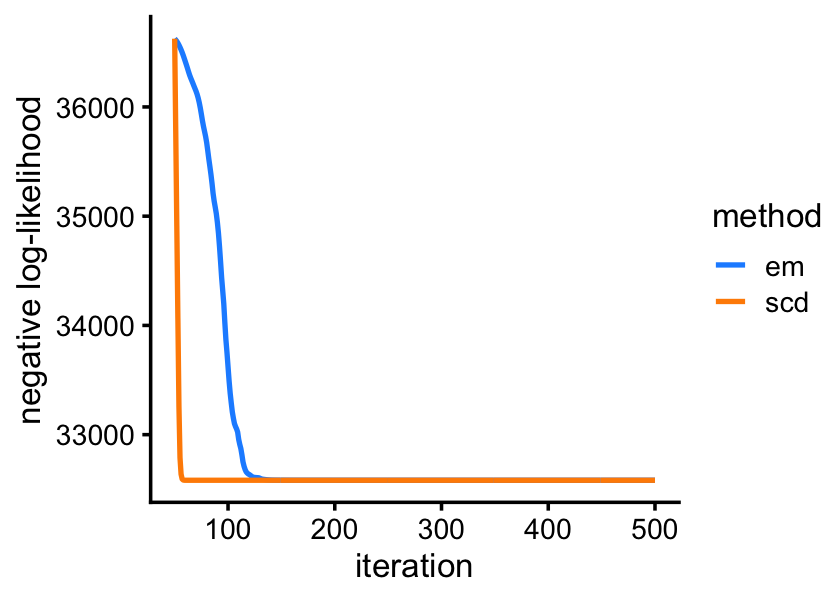
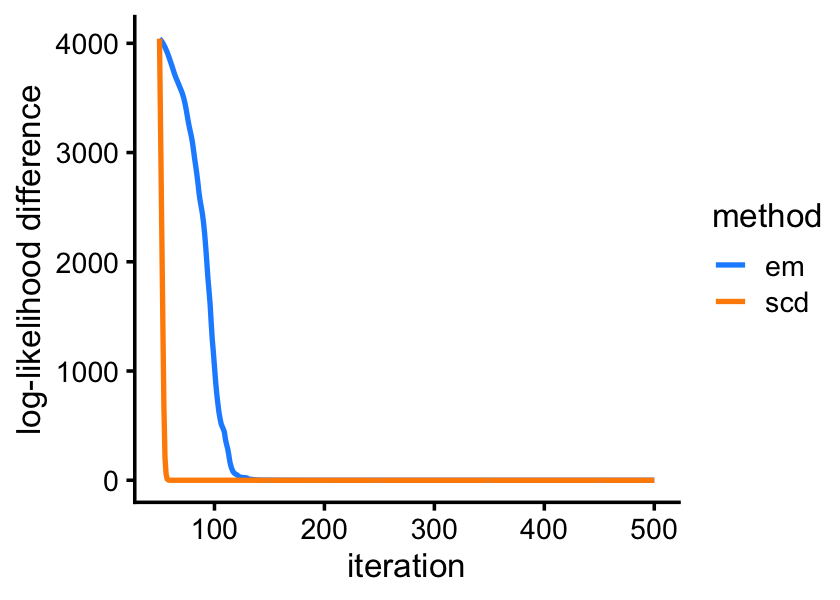
Made small change to the plots in the "smallsim" demo.

diff --git a/docs/smallsim.html b/docs/smallsim.html
@@ -323,7 +323,7 @@ $(document).ready(function () {
 <div class="tab-content">
 <div id="summary" class="tab-pane fade in active">
 <p>
-<strong>Last updated:</strong> 2021-03-07
+<strong>Last updated:</strong> 2021-03-08
 </p>
 <p>
 <strong>Checks:</strong> <span class="glyphicon glyphicon-ok text-success" aria-hidden="true"></span> 7 <span class="glyphicon glyphicon-exclamation-sign text-danger" aria-hidden="true"></span> 0
@@ -414,16 +414,16 @@ This reproducible <a href="http://rmarkdown.rstudio.com">R Markdown</a> analysis
 <div class="panel panel-default">
 <div class="panel-heading">
 <p class="panel-title">
-<a data-toggle="collapse" data-parent="#workflowr-checks" href="#strongRepositoryversionstrongahrefhttpsgithubcomstephenslabfastTopicsexperimentstreebf104901c26f19c41642b7d30b94afc99ee19928targetblankbf10490a"> <span class="glyphicon glyphicon-ok text-success" aria-hidden="true"></span> <strong>Repository version:</strong> <a href="https://github.com/stephenslab/fastTopics-experiments/tree/bf104901c26f19c41642b7d30b94afc99ee19928" target="_blank">bf10490</a> </a>
+<a data-toggle="collapse" data-parent="#workflowr-checks" href="#strongRepositoryversionstrongahrefhttpsgithubcomstephenslabfastTopicsexperimentstreeeb2f21d3a79e505932400d0098bb4ce9f5bea43btargetblankeb2f21da"> <span class="glyphicon glyphicon-ok text-success" aria-hidden="true"></span> <strong>Repository version:</strong> <a href="https://github.com/stephenslab/fastTopics-experiments/tree/eb2f21d3a79e505932400d0098bb4ce9f5bea43b" target="_blank">eb2f21d</a> </a>
 </p>
 </div>
[2 lines of base64/hex data omitted]
 <div class="panel-body">
 <p>
 Great! You are using Git for version control. Tracking code development and connecting the code version to the results is critical for reproducibility.
 </p>
 <p>
-The results in this page were generated with repository version <a href="https://github.com/stephenslab/fastTopics-experiments/tree/bf104901c26f19c41642b7d30b94afc99ee19928" target="_blank">bf10490</a>. See the <em>Past versions</em> tab to see a history of the changes made to the R Markdown and HTML files.
+The results in this page were generated with repository version <a href="https://github.com/stephenslab/fastTopics-experiments/tree/eb2f21d3a79e505932400d0098bb4ce9f5bea43b" target="_blank">eb2f21d</a>. See the <em>Past versions</em> tab to see a history of the changes made to the R Markdown and HTML files.
 </p>
 <p>
 Note that you need to be careful to ensure that all relevant files for the analysis have been committed to Git prior to generating the results (you can use <code>wflow_publish</code> or <code>wflow_git_commit</code>). workflowr only checks the R Markdown file, but you know if there are other scripts or data files that it depends on. Below is the status of the Git repository when the results were generated:
@@ -472,6 +472,40 @@ Message
 </tr>
 </thead>
 <tbody>
+<tr>
+<td>
+Rmd
+</td>
+<td>
+<a href="https://github.com/stephenslab/fastTopics-experiments/blob/eb2f21d3a79e505932400d0098bb4ce9f5bea43b/analysis/smallsim.Rmd" target="_blank">eb2f21d</a>
+</td>
+<td>
+Peter Carbonetto
+</td>
+<td>
+2021-03-08
+</td>
+<td>
+workflowr::wflow_publish(“smallsim.Rmd”)
+</td>
+</tr>
+<tr>
+<td>
+html
+</td>
+<td>
+<a href="https://rawcdn.githack.com/stephenslab/fastTopics-experiments/8e406adc1c3da6e89e32874cacf26eda6b34c4d5/docs/smallsim.html" target="_blank">8e406ad</a>
+</td>
+<td>
+Peter Carbonetto
+</td>
+<td>
+2021-03-07
+</td>
+<td>
+Added introductory text to “smallsim” demo.
+</td>
+</tr>
 <tr>
 <td>
 Rmd
@@ -946,14 +980,15 @@ fit2 &lt;- fit_poisson_nmf(X,fit0 = fit0,numiter = 450,method = &quot;scd&quot;,
                         control = list(extrapolate = FALSE,numiter = 4))
 fit1 &lt;- poisson2multinom(fit1)
 fit2 &lt;- poisson2multinom(fit2)</code></pre>
-<p>This next plot shows the improvement in the solution over time for the EM and SCD updates.</p>
-<pre class="r"><code>pdat&lt;-rbind(data.frame(x=1:500,y=-fit1$progress$loglik.multinom,method=&quot;em&quot;),
-            data.frame(x=1:500,y=-fit2$progress$loglik.multinom,method=&quot;scd&quot;))
+<p>This next plot shows the improvement in the solution over time for the EM and SCD updates. The Y axis shows the difference between the current log-likelihood and the best log-likelihood achieved by the two methods.</p>
+<pre class="r"><code>pdat&lt;-rbind(data.frame(x=1:500,y=fit1$progress$loglik.multinom,method=&quot;em&quot;),
+            data.frame(x=1:500,y=fit2$progress$loglik.multinom,method=&quot;scd&quot;))
+pdat &lt;- transform(pdat,y = max(y) - y)
 pdat &lt;- subset(pdat,x &gt;= 50)
 ggplot(pdat,aes(x = x,y = y,color = method)) +
   geom_line(size = 0.75) +
   scale_color_manual(values = c(&quot;dodgerblue&quot;,&quot;darkorange&quot;)) +
-  labs(x = &quot;iteration&quot;,y = &quot;negative log-likelihood&quot;) +
+  labs(x = &quot;iteration&quot;,y = &quot;log-likelihood difference&quot;) +
   theme_cowplot(font_size = 10)</code></pre>
 <p><img src="figure/smallsim.Rmd/plot-progress-1-1.png" width="420" style="display: block; margin: auto;" /></p>
 <p>
@@ -1131,10 +1166,11 @@ fit1 &lt;- poisson2multinom(fit1)
 fit2 &lt;- poisson2multinom(fit2)
 fit3 &lt;- poisson2multinom(fit3)</code></pre>
 <p>In this second example, after initially making good progress, the EM estimates remain very far from the solution achieved by SCD even after hundreds of EM updates. This isn’t a case where the EM updates have settled on a different local solution—the SCD updates quickly “rescue” the EM estimates.</p>
-<pre class="r"><code>pdat&lt;-rbind(data.frame(x=1:1050,y=-fit1$progress$loglik.multinom,method=&quot;em&quot;),
-            data.frame(x=1:1050,y=-fit2$progress$loglik.multinom,method=&quot;scd&quot;),
-            data.frame(x=851:1050,y=-fit3$progress[851:1050,&quot;loglik.multinom&quot;],
+<pre class="r"><code>pdat&lt;-rbind(data.frame(x=1:1050,y=fit1$progress$loglik.multinom,method=&quot;em&quot;),
+            data.frame(x=1:1050,y=fit2$progress$loglik.multinom,method=&quot;scd&quot;),
+            data.frame(x=851:1050,y=fit3$progress[851:1050,&quot;loglik.multinom&quot;],
                        method = &quot;em+scd&quot;))
+pdat &lt;- transform(pdat,y = max(y) - y)
 pdat &lt;- subset(pdat,x &gt;= 50)
 ggplot(pdat,aes(x = x,y = y,color = method)) +
   geom_line(size = 0.75) +
